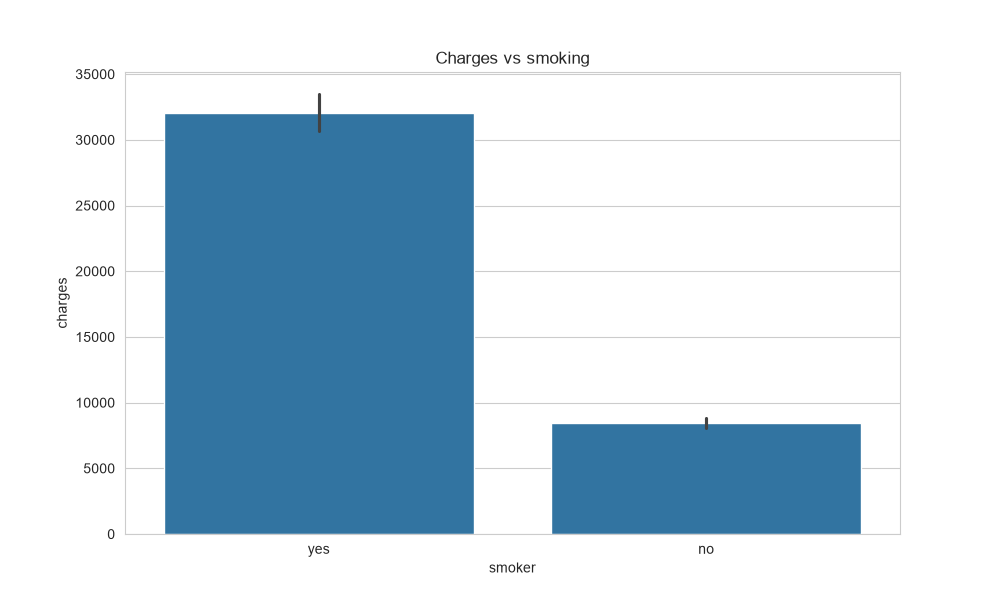
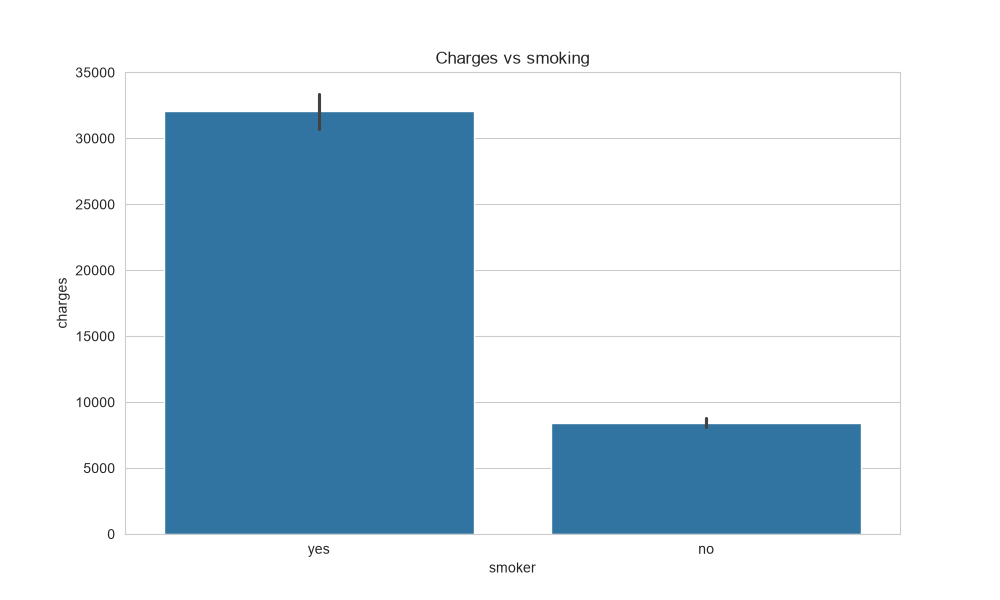
Complete medical insurance regression project

diff --git a/README.md b/README.md
@@ -1,109 +1,79 @@
+# Medical Insurance Cost Prediction — Linear Regression
 
-Markdown View 
-AA
-Medical Insurance Cost Prediction — Linear Regression
-Predicting individual medical insurance charges from demographic and health features using Linear Regression, with Ridge and Lasso comparison and full diagnostic evaluation.
-Problem Statement
-Insurance providers need to estimate expected medical costs for a policyholder based on measurable factors like age, BMI, and smoking status, in order to price policies appropriately. This project builds and evaluates a regression model to predict charges from six input features.
-Dataset
-Source: Medical Cost Personal Dataset (insurance.csv)
-Size: 1,338 rows (1,337 after removing 1 duplicate), 7 columns
-Features: age, sex, bmi, children, smoker, region
-Target: charges (USD)
-Key EDA Insight
-Smoker status is by far the strongest driver of insurance charges. Smokers pay ~4x more on average than non-smokers:
-Group
-Average Charges
-Non-smoker
-$8,434
-Smoker
-$32,050
-This relationship doesn't appear in a standard numeric correlation heatmap at all, since smoker is categorical — it only surfaces through a groupby/boxplot comparison against the target.
-The target variable itself is heavily right-skewed (skew ≈ 1.51), with a long tail of high-cost cases almost entirely explained by smoking status.
-Methodology
-EDA — distribution analysis, missing value/duplicate checks, univariate and bivariate analysis against the target
-Preprocessing — ColumnTransformer with StandardScaler on numeric features and OneHotEncoder(drop="first", handle_unknown="ignore") on categorical features, wrapped in a full sklearn.Pipeline
-Modeling — Linear Regression, Ridge, and Lasso compared, with alpha tuned via GridSearchCV (5-fold cross-validation)
-Target transform experiment — tested wrapping the model in TransformedTargetRegressor with a log1p transform to address the target's skew
-Diagnostics — residual analysis, VIF (multicollinearity), Cook's Distance (influential points)
-Results
-Model
-RMSE
-R²
-Linear Regression
-5,956
-0.807
-Ridge (α=1, tuned)
-5,972
-0.806
-Lasso (α=50, tuned)
-6,028
-0.802
-Plain Linear Regression performed best. Ridge and Lasso didn't meaningfully improve results — confirmed via VIF analysis (all features scored below 2, well under the multicollinearity concern threshold of 5–10), so there was little for regularization to correct.
-Top Coefficients (standardized)
-Feature
-Coefficient
-smoker_yes
-+$22,941
-age
-+$3,468
-bmi
-+$1,923
-children
-+$637
-Holding all else constant, being a smoker adds ~$22,941 to predicted charges — roughly 6x the size of the next-largest effect.
-Key Trade-off: Log-Transforming the Target
-Log-transforming charges fixed its skew almost completely (1.51 → -0.10), but the effect on model performance was mixed rather than uniformly positive:
-Metric
-Without log-transform
-With log-transform
-RMSE
-5,956
-7,197
-MAE
-4,177
-3,756
-R²
-0.807
-0.718
-The log-transformed model is better at the typical case (lower MAE) but worse at the expensive case (higher RMSE), since squared-error metrics penalize misses on the largest (mostly high-BMI-smoker) charges much more heavily. This project ships the untransformed model, prioritizing overall accuracy (RMSE/R²) — but the log-transformed version would be the better choice if the business priority were typical-case accuracy over worst-case accuracy.
-Diagnostics
-Assumption
-Status
-Evidence
-Linearity
-Partially violated
-Residual pattern suggests a missing interaction effect
-Homoscedasticity
-Violated
-corr(|residual|, fitted) = 0.64
-Normality of residuals
-Violated
-Residual skew = 1.24
-No multicollinearity
-Holds
-All VIF < 2
-Cook's Distance flagged 67 of 1,069 training points above the 4/n threshold, but the maximum distance (0.026) is far below the conventional "clearly influential" cutoff of 1.0 — no single point distorts the model; the flagged points are simply the genuine high-cost smoker cases identified in the EDA.
-Limitations & Future Work
-The model doesn't capture the smoker × bmi interaction — high-BMI smokers cost disproportionately more than the additive combination of the two effects alone, which is the direct cause of the heteroscedasticity found in diagnostics
-Adding this interaction term explicitly, or moving to a model that captures interactions natively (Random Forest, Gradient Boosting — planned later in this study series), is the clear next step
-Residual normality remains imperfect even after diagnostics — worth revisiting alongside the interaction term fix
-Tech Stack
-Python · pandas · numpy · scikit-learn · matplotlib · seaborn · statsmodels
-How to Run
-git clone <repo-url>
-cd linear-regression-insurance-cost
-python -m venv venv
-source venv/bin/activate        # Windows: venv\Scripts\activate
-pip install -r requirements.txt
-jupyter notebook notebooks/insurance_analysis.ipynb
-Repo Structure
-linear-regression-insurance-cost/
-├── data/
-│   └── insurance.csv
-├── notebooks/
-│   └── insurance_analysis.ipynb
-├── images/
-├── requirements.txt
-├── .gitignore
-└── README.md
+A machine learning project that predicts individual medical insurance charges using Linear Regression, with Ridge and Lasso regularization comparison, target-transformation experiments, and regression diagnostics.
+
+## Problem Statement
+
+Insurance providers need to estimate expected medical costs for policyholders based on measurable demographic and health-related factors.
+
+This project builds and evaluates regression models to predict medical insurance charges using:
+
+- Age
+- Sex
+- BMI
+- Number of children
+- Smoking status
+- Region
+
+The target variable is `charges`.
+
+---
+
+## Dataset
+
+**Dataset:** Medical Cost Personal Dataset (`insurance.csv`)
+
+- Original size: 1,338 rows × 7 columns
+- Final size: 1,337 rows × 7 columns
+- Duplicate rows removed: 1
+
+### Features
+
+| Feature | Type | Description |
+|---|---|---|
+| `age` | Numerical | Age of the policyholder |
+| `sex` | Categorical | Sex of the policyholder |
+| `bmi` | Numerical | Body Mass Index |
+| `children` | Numerical | Number of children/dependents |
+| `smoker` | Categorical | Smoking status |
+| `region` | Categorical | Residential region |
+
+### Target
+
+`charges` — individual medical insurance charges in USD.
+
+---
+
+## Exploratory Data Analysis
+
+The project performs:
+
+- Dataset structure analysis
+- Missing-value checks
+- Duplicate detection
+- Numerical statistical summaries
+- Categorical analysis
+- Distribution analysis
+- Skewness analysis
+- IQR-based outlier detection
+- Univariate analysis
+- Bivariate analysis
+- Correlation analysis
+
+### Key EDA Findings
+
+Smoking status is the strongest visible driver of insurance charges.
+
+Average charges in the dataset were approximately:
+
+| Group | Average Charges |
+|---|---:|
+| Non-smoker | $8,434 |
+| Smoker | $32,050 |
+
+Smokers therefore have substantially higher average insurance charges than non-smokers.
+
+The target variable `charges` is also strongly right-skewed:
+
+```text
+Skewness ≈ 1.51
